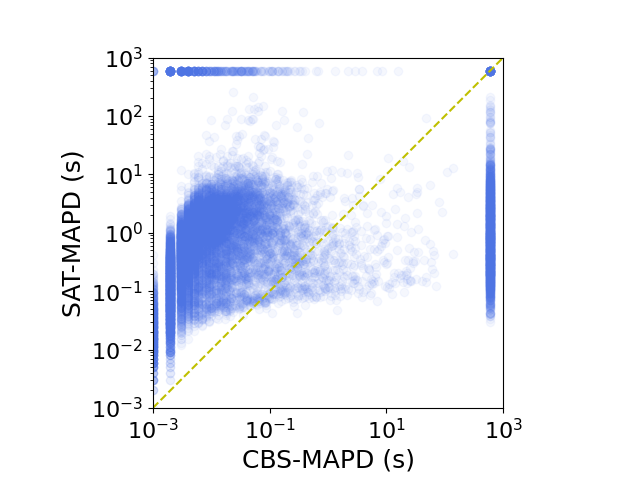
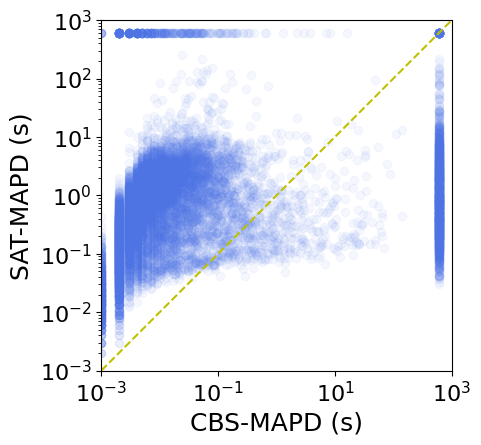
Borderless plots

diff --git a/eval/input/plotter.py b/eval/input/plotter.py
@@ -60,6 +60,7 @@ def plot_solved_agents(configs, solved_dict, num_list):
     plt.savefig(
         "out/solved_agents_{}__{}.png".format(algo1.lower(), algo2.lower()),
         transparent=True,
+        bbox_inches="tight",
     )
     plt.cla()
 
@@ -94,6 +95,7 @@ def plot_solved_containers(configs, solved_dict, num_list):
     plt.savefig(
         "out/solved_containers_{}__{}.png".format(algo1.lower(), algo2.lower()),
         transparent=True,
+        bbox_inches="tight",
     )
     plt.cla()
 
@@ -150,6 +152,7 @@ def scatter_dict(
     fig.savefig(
         "out/scatter_{}_{}__{}.png".format(stat_name, algo1.lower(), algo2.lower()),
         transparent=True,
+        bbox_inches="tight",
     )
     plt.cla()
 
